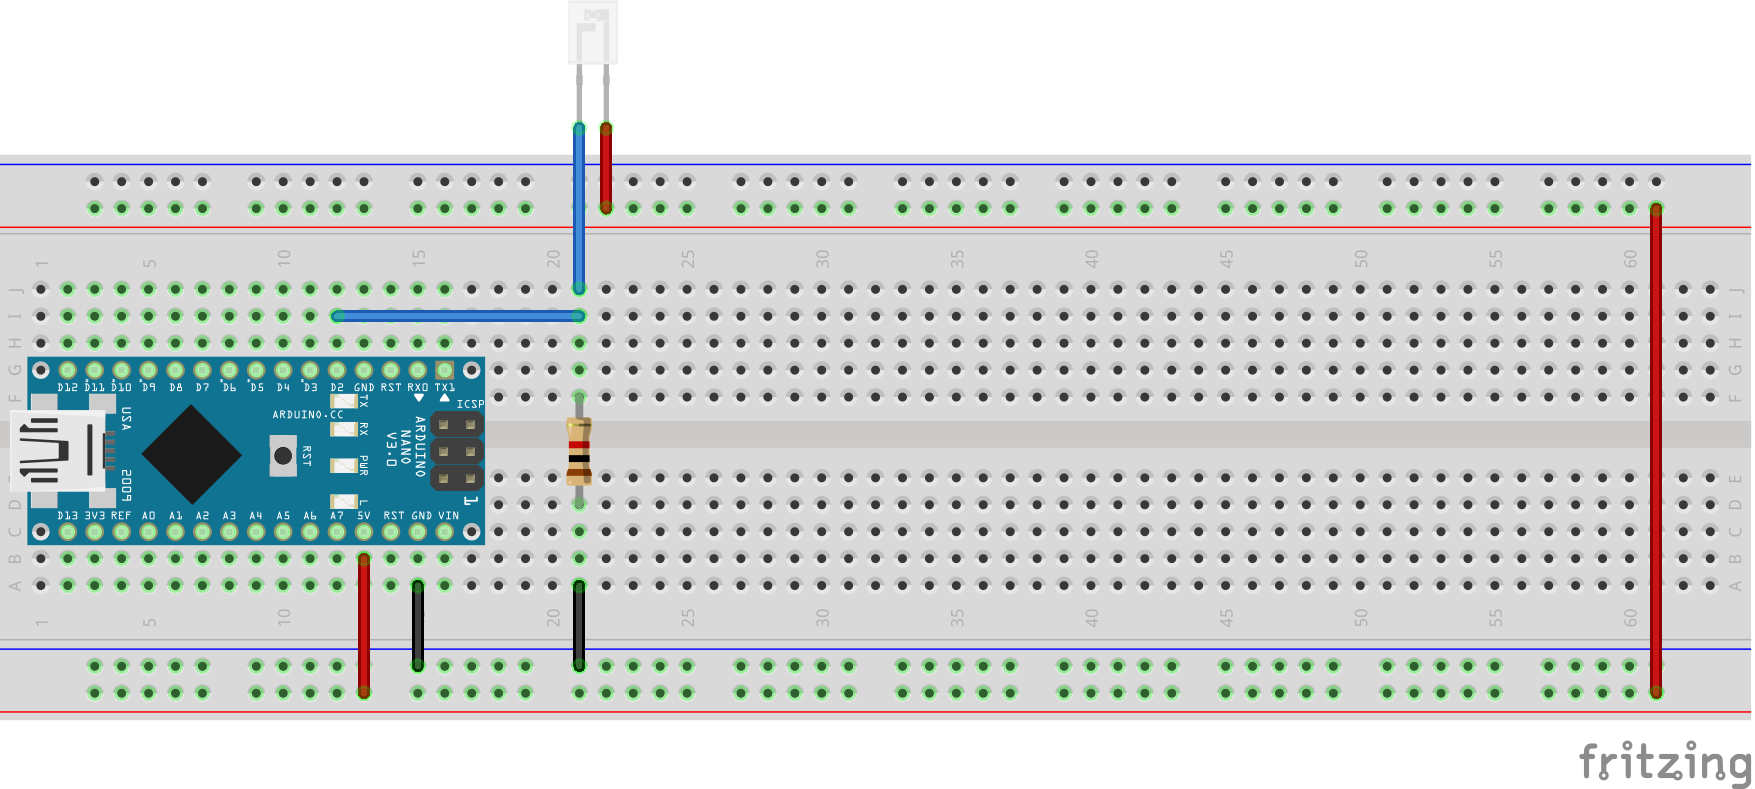
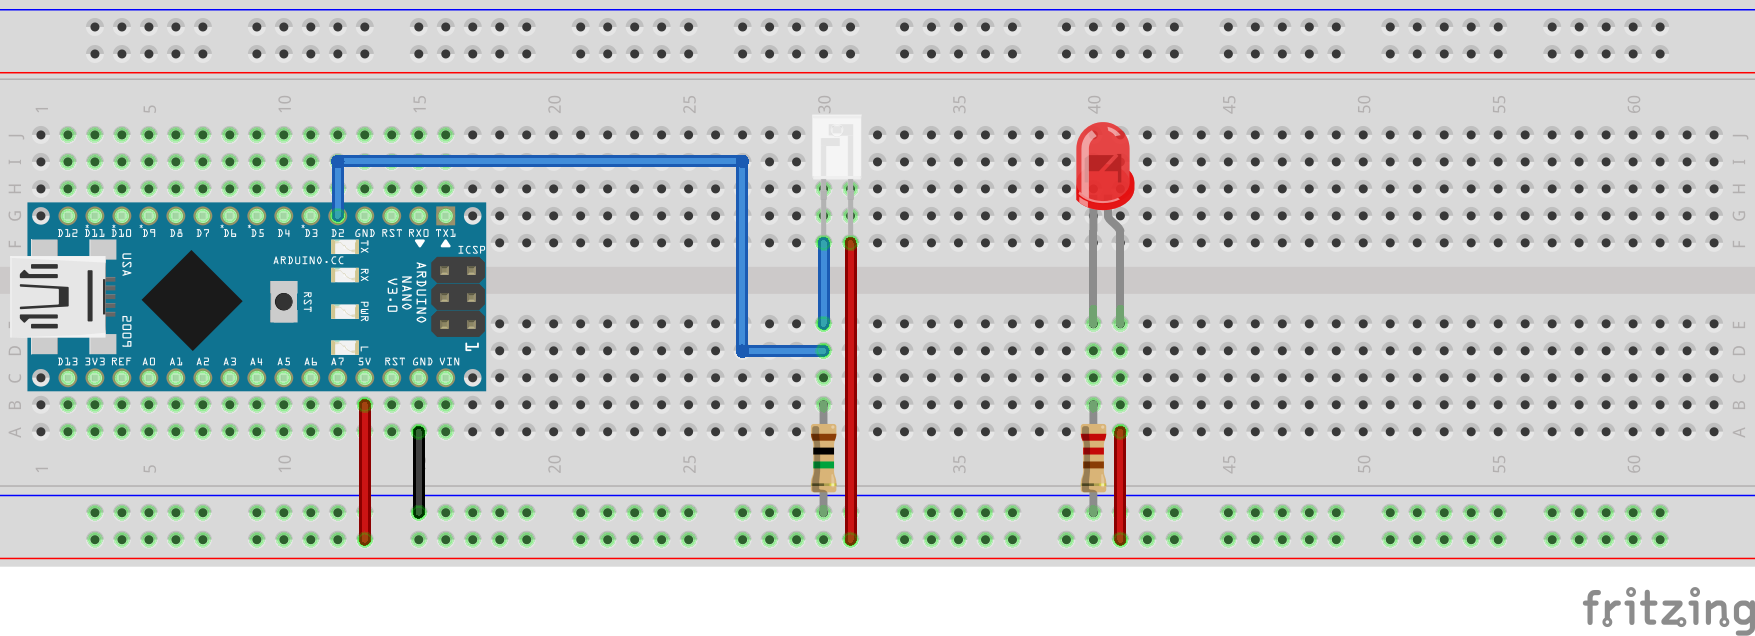
Step 1 looks fine

diff --git a/DevelopmentStories.md b/DevelopmentStories.md
@@ -16,11 +16,12 @@ With the following schema, it would be possible to check different values of res
 * The voltage value induced by the phototransistor current, depending on the light illuminated it
 * Which light intensity, for different resistor value, allow to swich the digital port of the Arduino
 
-As a ligth source, we will use a standad led component, directly wired on the 5V output of the Arduino. A 220 Ohm resistor is used to get an intensity less than 20 mA.  
+As a ligth source, we will use a standad led component, directly wired on the 5V output of the Arduino.  A 220 Ohm resistor is used to get an intensity less than 20 mA.  
+20 mA is the maximum current value recommended for both Arduino output (even not used in this experimentation) and for a standard LED.  
 $$
-I = U/R = \frac{(5.0 - 2.2)}{220} \approxeq 13 mA
+I = U/R = \frac{(5.0 - 1.2)}{220} \approxeq 17 mA
 $$  
-(The direct voltage of the Led is 2.2V)  
+(The direct voltage of the Led is 1.2V)  
 
 And here is the schema :
 ![Experimentation schema](DevelopmentSteps/Step0_Experimentation/experimentation/Experimentation_bb.png)
@@ -99,13 +100,16 @@ https://lederniermatou.net/arduino-et-phototransistor.html
 
 ### Realisation
 
-The following circuit has been realized, using the indications found in the referenced bibliography :  
+The following circuit has been realized, based on the experimentation :  
 
 ![Schema](DevelopmentSteps/Step1_EdgesDetection/EdgesDetection_schema.png)  
 
 ![Bread board](DevelopmentSteps/Step1_EdgesDetection/EdgesDetection_bb.png)
 
 ### Code
+
+@See EdgesDetection.ino
+
 
 
 
